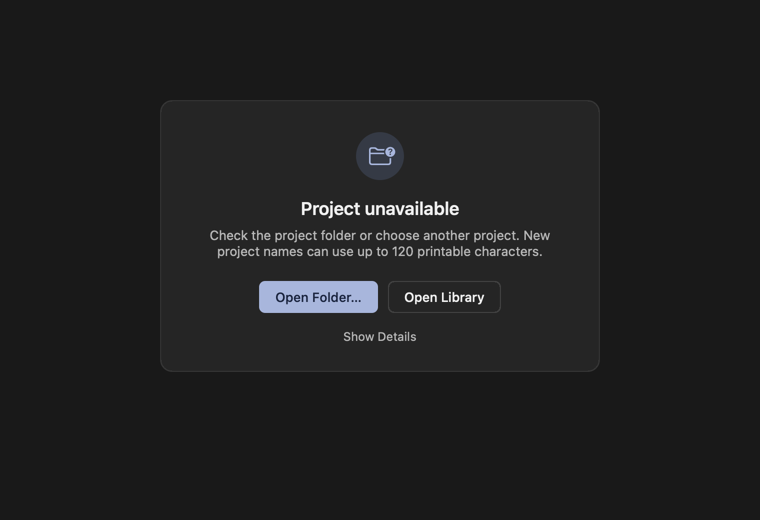
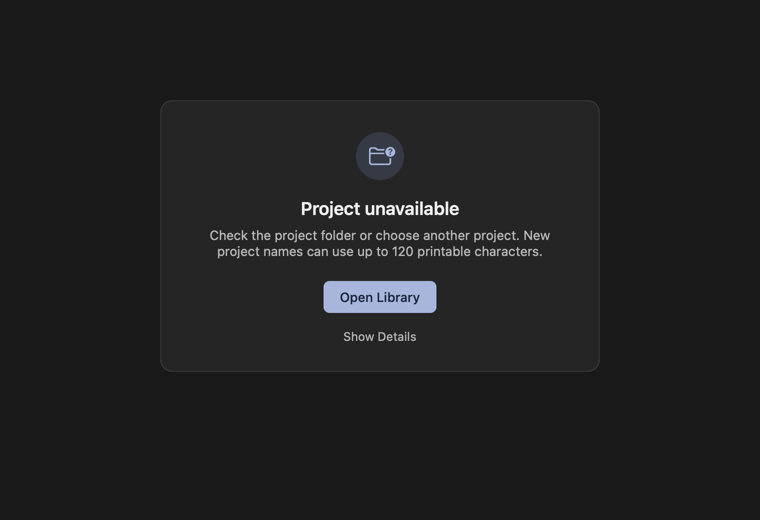
fix(desktop): lead project problems back to the library, not to a folder
Opening an arbitrary folder is an advanced tool. Project problems now offer
Open Library, retryable problems offer Try Again alone, and Open Folder is
offered only in the flow where the researcher already chose a folder.

Refs #286

Changed region(s): [[0.3329, 0.5231, 0.6355, 0.6154]]

diff --git a/desktop/macos/Sources/StatusPresentation.swift b/desktop/macos/Sources/StatusPresentation.swift
@@ -33,12 +33,13 @@ struct StatusPresentation: Equatable {
             return StatusPresentation(kind: .problem, symbol: "exclamationmark.triangle", actions: [.quit])
         case "library", "disconnected", "create-postgres":
             return StatusPresentation(kind: .problem, symbol: symbol(for: key), actions: [.retry])
-        default:
-            if canRetry {
-                return StatusPresentation(kind: .problem, symbol: symbol(for: key), actions: [.retry, .chooseFolder])
-            }
-            // The project or folder cannot be used as it is. Pick another one, or go back to the library.
+        case "create-path", "create-failed", "workspace-occupied":
+            // Only reached after the researcher chose a folder, so choosing another one is the fix.
             return StatusPresentation(kind: .problem, symbol: symbol(for: key), actions: [.chooseFolder, .openLibrary])
+        default:
+            if canRetry { return StatusPresentation(kind: .problem, symbol: symbol(for: key), actions: [.retry]) }
+            // Opening arbitrary folders is an advanced tool. Ordinary problems lead back to the app's own library.
+            return StatusPresentation(kind: .problem, symbol: symbol(for: key), actions: [.openLibrary])
         }
     }
 

diff --git a/desktop/macos/tests/WorkbenchProcessTests.swift b/desktop/macos/tests/WorkbenchProcessTests.swift
@@ -48,7 +48,10 @@ struct WorkbenchProcessTests {
             else { precondition(!presentation.actions.contains(.retry), "\(key) cannot be retried") }
         }
         precondition(StatusPresentation.of("install", canRetry: false).actions == [.quit])
-        precondition(StatusPresentation.of("project", canRetry: false).actions == [.chooseFolder, .openLibrary])
+        // Opening a folder is advanced: only the folder flow itself offers it (#286 review).
+        precondition(StatusPresentation.of("project", canRetry: false).actions == [.openLibrary])
+        precondition(StatusPresentation.of("postgres", canRetry: true).actions == [.retry])
+        precondition(StatusPresentation.of("workspace-occupied", canRetry: false).actions.first == .chooseFolder)
         for strings in [english, chinese] {
             for key in ["library.open", "details.show", "details.hide", "details.copy", "details.code", "retry", "choose", "quit"] {
                 precondition(strings[key] != nil, "missing \(key)")

diff --git a/docs/desktop.md b/docs/desktop.md
@@ -89,7 +89,7 @@ python -m pytest -m offline
 desktop/macos/tests/run-swift-tests.sh
 ```
 
-The screens shown before the workbench opens (opening, choosing a folder, and problems such as an unavailable database) share one native component that uses the workbench's colours, type and button styles. Each problem offers one primary action that leads to a fix, and keeps the path and error code behind **Show Details**. To review every screen in light and dark, render them into an existing folder outside the checkout:
+The screens shown before the workbench opens (opening, choosing a folder, and problems such as an unavailable database) share one native component that uses the workbench's colours, type and button styles. Each problem offers one primary action that leads to a fix. Problems with a project lead back to **Open Library**, and only the folder flow offers **Open Folder…**. Each screen keeps the path and error code behind **Show Details**. To review every screen in light and dark, render them into an existing folder outside the checkout:
 
 ```sh
 desktop/macos/tests/render-status-screens.sh /absolute/path/to/renders en

diff --git a/docs/desktop.zh-CN.md b/docs/desktop.zh-CN.md
@@ -91,7 +91,7 @@ python -m pytest -m offline
 desktop/macos/tests/run-swift-tests.sh
 ```
 
-工作台打开前的各个画面（正在打开、选择文件夹，以及数据库不可用等问题）共用一个原生组件，使用与工作台相同的配色、字号和按钮样式。每个问题只给一个能解决它的主操作，路径和错误代码收在「显示详情」里。要检查所有画面的浅色和深色效果，把它们渲染到源码目录外一个已存在的文件夹：
+工作台打开前的各个画面（正在打开、选择文件夹，以及数据库不可用等问题）共用一个原生组件，使用与工作台相同的配色、字号和按钮样式。每个问题只给一个能解决它的主操作。课题出问题时引导回「打开库」，只有在选择文件夹的流程中才提供「打开文件夹…」。路径和错误代码收在「显示详情」里。要检查所有画面的浅色和深色效果，把它们渲染到源码目录外一个已存在的文件夹：
 
 ```sh
 desktop/macos/tests/render-status-screens.sh /absolute/path/to/renders en

diff --git a/CHANGELOG.md b/CHANGELOG.md
@@ -2,7 +2,7 @@
 
 ## 1.0.106
 
-- The screens Trellin shows before the workbench opens now match the workbench: a centred panel with an icon for the kind of problem, one primary action that fixes it, and the path and error code behind **Show Details**. Problems a project cannot recover from offer **Open Library**.
+- The screens Trellin shows before the workbench opens now match the workbench: a centred panel with an icon for the kind of problem, one primary action that fixes it, and the path and error code behind **Show Details**. Problems with a project lead back to **Open Library**; opening another folder is offered only after you chose one.
 
 ## 1.0.105
 
